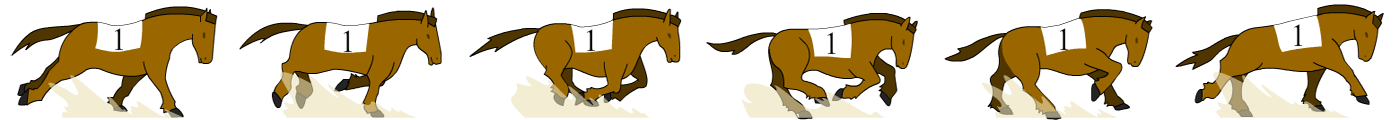
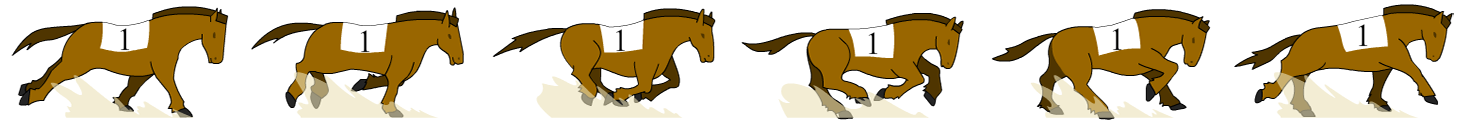
update

diff --git a/source/assets/js/horserace.js b/source/assets/js/horserace.js
@@ -101,12 +101,12 @@ BasicGame.Preloader.prototype = {
 
         for (i = 0; i < horseNum; i++) {
             hid = i + 1;
-            game.load.spritesheet('horse' + hid, 'assets/horserace/' + hid + '.png', 260, 120);
+            game.load.spritesheet('horse' + hid, 'assets/horserace/' + hid + '.png', 245, 120);
         }
 
         this.load.image('runway-begin','assets/horserace/begin.png');
         this.load.image('runway','assets/horserace/runway.png');
-        this.load.image('runway-end','assets/horserace/begin.png');
+        this.load.image('runway-end','assets/horserace/end.png');
         this.load.image('panel','assets/horserace/panel.png');
         this.load.spritesheet('stand','assets/horserace/stand.png', 175, 110);
 
@@ -193,7 +193,8 @@ BasicGame.Game = function (game) {
     this.panel;
     this.runwayLength = 2160;
     this.runLength = 1800;
-    this.startX = 13;
+    this.startX = 0;
+    this.horsePadding = 20;
 };
 
 BasicGame.Game.prototype = {
@@ -209,21 +210,26 @@ BasicGame.Game.prototype = {
 
     create: function () {
         game.world.setBounds(0, 0, this.runwayLength, 1280);
-        game.add.sprite(0, 0, 'runway-begin');
-        game.add.sprite(this.runwayLength - this.cache.getImage('runway-end').width, 0, 'runway-end');
-
-        var runway = game.add.tileSprite(
-            this.cache.getImage('runway-begin').width,
+        game.add.tileSprite(
             0,
-            this.runwayLength - this.cache.getImage('runway-begin').width - this.cache.getImage('runway-end').width,
+            0,
+            game.world.width,
             game.height,
             'runway'
         );
+        game.add.sprite(100 + this.startX, 217, 'runway-begin');
+        game.add.sprite(this.startX + this.runLength + 245 - this.horsePadding, 217, 'runway-end');
 
-        this.panel = game.add.sprite(0, 0, 'panel');
+        this.panel = game.add.group();
+        this.panel.create(0, 0, 'panel');
         this.panel.fixedToCamera = true;
         this.panel.cameraOffset.x = 0;
         this.panel.cameraOffset.y = 0;
+
+        var style = { font: "23px Arial", fill: "#000000" };
+        game.add.text(80, 100, '    ' + rank1 + '号马\n下注' + rankPoints1 + '积分', style, this.panel);
+        game.add.text(300, 100, '    ' + rank2 + '号马\n下注' + rankPoints2 + '积分', style, this.panel);
+        game.add.text(530, 100, '    ' + rank3 + '号马\n下注' + rankPoints3 + '积分', style, this.panel);
 
         var y = 188;
         // var by = 10;
@@ -237,7 +243,7 @@ BasicGame.Game.prototype = {
     },
 
     runStart: function () {
-        var duration = this.rndDuration(5000, 9000);
+        var duration = this.rndDuration(7000, 12000);
         // var duration = this.rndDuration(1000, 2000);
 
         cameraMoveTime = duration[0];
@@ -255,6 +261,7 @@ BasicGame.Game.prototype = {
                 // btemptween.to({ x: 10 + bSectionDistance * (tweenI + 1) }, section[tweenI], Phaser.Easing.Linear.None);
                 ptemptween.to({ x: this.startX + pSectionDistance * (tweenI + 1) }, section[tweenI], Phaser.Easing.Linear.None);
             }
+            ptemptween.to({ x: game.world.width }, 2000, Phaser.Easing.Linear.None);
             // btween[i] = btemptween;
             ptween[i] = ptemptween;
         }
@@ -262,7 +269,7 @@ BasicGame.Game.prototype = {
             this.players[i].animations.add('run');
             this.players[i].animations.play('run', 12, true);
             // btween[i].start();
-            ptween[i].onComplete.add(this.runStop, this);
+            // ptween[i].onComplete.add(this.runStop, this);
             ptween[i].start();
         }
         game.add.tween(game.camera).to({ x: 1440 }, cameraMoveTime, Phaser.Easing.Linear.None, true);
@@ -270,9 +277,9 @@ BasicGame.Game.prototype = {
 
     runStop: function () {
         for (i = 0; i < horseNum; i++) {
-            if (!this.players[i].runStop && this.players[i].x == this.startX + this.runLength) {
+            if (!this.players[i].stopRun && this.players[i].x == this.startX + this.runLength) {
                 this.players[i].loadTexture('stand', this.players[i].horseId - 1);
-                this.players[i].runStop = true;
+                this.players[i].stopRun = true;
             }
         }
     },

diff --git a/source/assets/js/turntable.js b/source/assets/js/turntable.js
@@ -222,9 +222,10 @@ BasicGame.Game.prototype = {
             winWidth = document.documentElement.clientWidth;
         }
         var descobj=document.getElementById("desc");
-        descobj.style.left=winWidth * 0.0278 + 'px';
+        var infoobj=document.getElementById("info");
         descobj.style.top=winHeight * 0.7 + 'px';
-        descobj.style.height=winHeight * 0.2 + 'px';
+        descobj.style.height=winHeight * 0.3 + 'px';
+        infoobj.style.height=(winHeight * 0.3 - 30) + 'px';
         descobj.style.display="block";
     },
 

diff --git a/source/game/views/turntable.php b/source/game/views/turntable.php
@@ -3,10 +3,30 @@
 #desc {
 	display: none;
 	position: absolute;
-	color: white;
+	margin: 0px 15px 0px 15px;
+	border-radius: 5px;
+	padding: 2px;
+	background-color: #FEF8B2;
+	box-shadow: 0 0 6px rgba(0, 0, 0, 0.5);
+}
+.box {
+	border-radius: 5px;
+	font-size: 14px;
+	border: 1px dashed rgba(0, 0, 0, 0.3);
+}
+#info-title {
+	background:url(assets/turntable/info.png) no-repeat 0 0;
+	padding: 3px 5px 0px 10px;
+	border-radius: 3px 3px 3px 0;
+	color:#ffffff;
+	height:22px;
+	margin:-1px;
+	padding-bottom: 5px;
+}
+#info {
 	overflow-y: auto;
-	width: 94%;
-} 
+	padding-left: 6px;
+}
 </style>
 <script type="text/javascript">
 var isLogin = <?php echo $isLogin;?>;
@@ -18,6 +38,13 @@ var freeNum = <?php echo $freeNum;?>;
 
 	<div id="game"></div>
 	<div id="orientation"></div>
-	<div id="desc"><?php echo $desc;?></div>
+	<div id="desc">
+		<div class="box">
+			<div id="info-title">游戏说明：</div>
+			<div id="info">
+				<?php echo $desc;?>
+			</div>
+		</div>
+	</div>
 
 <?php include('_footer.php');?>
